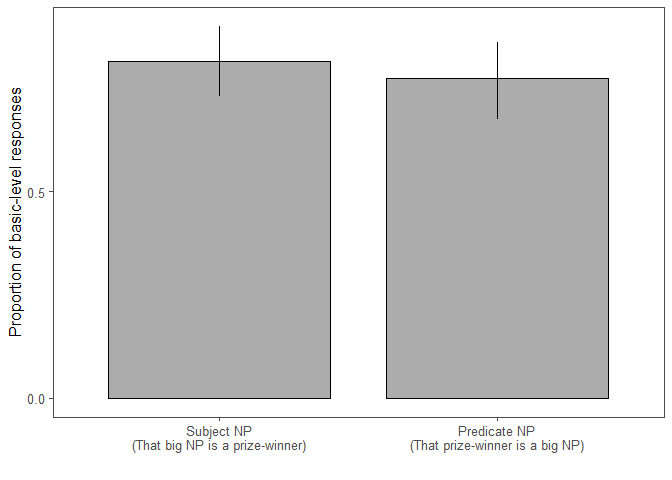
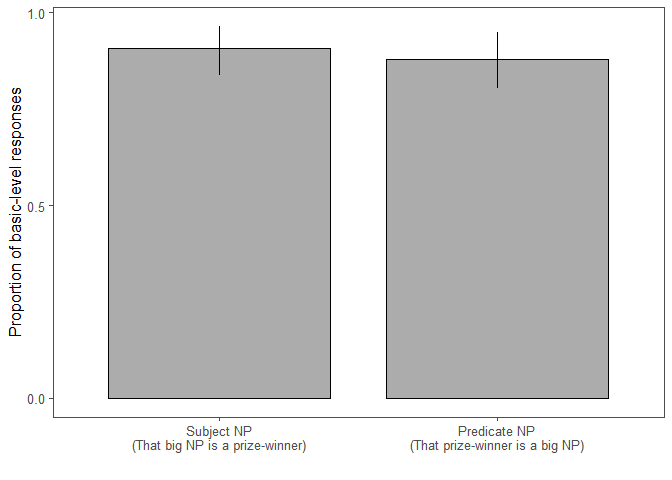
third pilot analysis

diff --git a/analysis/modification_manip_pilot3.md b/analysis/modification_manip_pilot3.md
@@ -25,7 +25,7 @@ prize-winner is a {small, big} NP’ (within-subject). We created nouns
 like ‘prize-winner’ for five context items (trees, 2 x dogs, flowers,
 birds).
 
-    ## -- Attaching packages ------------------------------------ tidyverse 1.2.1 --
+    ## -- Attaching packages ----------------------------------------- tidyverse 1.2.1 --
 
     ## v ggplot2 3.1.0     v purrr   0.2.5
     ## v tibble  2.1.3     v dplyr   0.8.3
@@ -36,7 +36,7 @@ birds).
 
     ## Warning: package 'dplyr' was built under R version 3.5.3
 
-    ## -- Conflicts --------------------------------------- tidyverse_conflicts() --
+    ## -- Conflicts -------------------------------------------- tidyverse_conflicts() --
     ## x dplyr::filter() masks stats::filter()
     ## x dplyr::lag()    masks stats::lag()
 
@@ -80,14 +80,6 @@ birds).
     ## The following object is masked from 'package:stats':
     ## 
     ##     step
-
-``` r
-#d_infer <- read_csv('../data/results_32_modification-manipulation-pilot3.csv')
-#d_infer1 <- d_infer %>% subset( select = -c(worker_id, hit_id, assignment_id, startDate))
-#write_csv(d_infer1, '../data/results_32_modification_manipulation_pilot3.csv')
-
-d_infer1 <- read_csv('../data/results_32_modification_manipulation_pilot3.csv')
-```
 
     ## Parsed with column specification:
     ## cols(
@@ -136,6 +128,39 @@ d_infer_warmup <- d_infer_Native %>%
 d_infer_filt1 <- anti_join(d_infer_Native, d_infer_warmup, by = c("submission_id"))
 d_infer_filt1 <- anti_join(d_infer_filt1, d_infer_cc_warmup, by = c("submission_id"))
 ```
+
+Participants need more labeling warm-up trials for the tree and dog
+items (they correct their responses about 2 times), for both items it is
+mostly for the big targets.
+
+``` r
+# labeling warm-up trial analysis
+
+d_infer1 %>%
+  filter((trial_name == "warmup1") | (trial_name == "warmup2")) -> d_infer_label_warmup
+         
+d_infer_label_warmup %>% group_by(submission_id, item, response1, response2) %>% count() %>%
+  gather(key="responseNr", value="response", response1, response2) -> warmup.resps.counts.long
+warmup.resps.counts.long %>% group_by(submission_id, item) %>% count(response) -> warmup.resps.counts.long.subs
+warmup.resps.counts.long.subs %>% group_by(submission_id, item) %>%  count(item) %>% mutate(nr_super = n) %>% select(-n) -> warmup.resps.counts.long.supers
+warmup.resps.counts.long.final <- warmup.resps.counts.long.subs %>%
+  left_join(., warmup.resps.counts.long.supers)
+```
+
+    ## Joining, by = c("submission_id", "item")
+
+``` r
+warmup.resps.counts.long.final %>% group_by(item) %>% tidyboot_mean(column=nr_super) %>% select(-ci_lower, -ci_upper, - mean)
+```
+
+    ## # A tibble: 5 x 3
+    ##   item        n empirical_stat
+    ##   <chr>   <int>          <dbl>
+    ## 1 birds      81           2.36
+    ## 2 dogs1     106           3.13
+    ## 3 dogs2     101           3   
+    ## 4 flowers    90           2.64
+    ## 5 trees     117           3.51
 
 The numbers of size-syntax and item-syntax combinations are relatively
 balanced.
@@ -272,13 +297,7 @@ d_infer_main_responseCat.bs %>%
 
     ## Warning: Duplicated aesthetics after name standardisation: colour
 
-![](modification_manip_pilot2_files/figure-gfm/proportions%20plot-1.png)<!-- -->
-
-``` r
- # ggtitle("Experiment 3: Comparison Class Inference")+
- # facet_grid(~context)  +
-  #ggsave("figs/expt3-cc-inference.pdf", width = 7.5, height = 3.5)
-```
+![](modification_manip_pilot3_files/figure-gfm/proportions%20plot-1.png)<!-- -->
 
 ## By-item plot
 
@@ -318,7 +337,7 @@ d_infer_main_responseCat.bs.item %>%
 
     ## Warning: Duplicated aesthetics after name standardisation: colour
 
-![](modification_manip_pilot2_files/figure-gfm/unnamed-chunk-5-1.png)<!-- -->
+![](modification_manip_pilot3_files/figure-gfm/unnamed-chunk-6-1.png)<!-- -->
 
 ## By-subject plot
 
@@ -357,7 +376,7 @@ d_infer_main_responseCat.bs.subj %>%
 
     ## Warning: Duplicated aesthetics after name standardisation: colour
 
-![](modification_manip_pilot2_files/figure-gfm/unnamed-chunk-6-1.png)<!-- -->
+![](modification_manip_pilot3_files/figure-gfm/unnamed-chunk-7-1.png)<!-- -->
 
 ## Stats
 
@@ -389,28 +408,103 @@ summary(d.infer.brm)
     ## Group-Level Effects: 
     ## ~submission_id (Number of levels: 32) 
     ##                              Estimate Est.Error l-95% CI u-95% CI
-    ## sd(Intercept)                    5.30      2.28     2.30    11.12
-    ## sd(syntaxsubject)                3.28      2.29     0.24     9.10
-    ## cor(Intercept,syntaxsubject)    -0.15      0.53    -0.95     0.85
+    ## sd(Intercept)                    5.48      2.35     2.21    11.55
+    ## sd(syntaxsubject)                3.42      2.40     0.25     9.27
+    ## cor(Intercept,syntaxsubject)    -0.18      0.52    -0.95     0.84
     ##                              Eff.Sample Rhat
-    ## sd(Intercept)                       992 1.00
-    ## sd(syntaxsubject)                   835 1.00
-    ## cor(Intercept,syntaxsubject)       2242 1.00
+    ## sd(Intercept)                      1111 1.00
+    ## sd(syntaxsubject)                   718 1.00
+    ## cor(Intercept,syntaxsubject)       2411 1.00
     ## 
     ## ~target (Number of levels: 10) 
     ##                              Estimate Est.Error l-95% CI u-95% CI
-    ## sd(Intercept)                    0.92      0.83     0.03     3.11
-    ## sd(syntaxsubject)                2.70      2.20     0.14     8.44
-    ## cor(Intercept,syntaxsubject)    -0.14      0.56    -0.96     0.91
+    ## sd(Intercept)                    0.93      0.86     0.03     3.10
+    ## sd(syntaxsubject)                2.76      2.38     0.12     8.87
+    ## cor(Intercept,syntaxsubject)    -0.13      0.56    -0.95     0.92
     ##                              Eff.Sample Rhat
-    ## sd(Intercept)                      1515 1.00
-    ## sd(syntaxsubject)                   929 1.00
-    ## cor(Intercept,syntaxsubject)       1228 1.00
+    ## sd(Intercept)                      1416 1.00
+    ## sd(syntaxsubject)                   960 1.00
+    ## cor(Intercept,syntaxsubject)       1603 1.00
     ## 
     ## Population-Level Effects: 
     ##               Estimate Est.Error l-95% CI u-95% CI Eff.Sample Rhat
-    ## Intercept         4.02      1.82     1.46     8.55       1226 1.00
-    ## syntaxsubject     1.37      2.50    -2.76     7.74       1033 1.00
+    ## Intercept         4.16      1.99     1.39     9.15       1253 1.00
+    ## syntaxsubject     1.36      2.81    -3.12     7.98        760 1.00
+    ## 
+    ## Samples were drawn using sampling(NUTS). For each parameter, Eff.Sample 
+    ## is a crude measure of effective sample size, and Rhat is the potential 
+    ## scale reduction factor on split chains (at convergence, Rhat = 1).
+
+Double the dataset to see the stats:
+
+``` r
+# simulate twise as much data
+d_infer_main_responseCat_double <- d_infer_main_responseCat %>%
+  rowwise() %>%
+  mutate(submission_id = paste(submission_id, "A", sep=''))
+
+d_infer_main_responseCat_double <- rbind(d_infer_main_responseCat, d_infer_main_responseCat_double)
+
+# stats on the doubled dataset
+d.infer.brm.double <- brm(response_num ~ syntax + 
+                            (1 + syntax | submission_id ) + 
+                            (1 + syntax | target ),
+                   data = d_infer_main_responseCat_double,
+                   family = "bernoulli",
+                   cores = 4,
+                   control = list(adapt_delta = 0.9))
+```
+
+    ## Compiling the C++ model
+
+    ## recompiling to avoid crashing R session
+
+    ## Start sampling
+
+    ## Warning: There were 1 divergent transitions after warmup. Increasing adapt_delta above 0.9 may help. See
+    ## http://mc-stan.org/misc/warnings.html#divergent-transitions-after-warmup
+
+    ## Warning: Examine the pairs() plot to diagnose sampling problems
+
+``` r
+summary(d.infer.brm.double)
+```
+
+    ## Warning: There were 1 divergent transitions after warmup. Increasing adapt_delta above 0.9 may help.
+    ## See http://mc-stan.org/misc/warnings.html#divergent-transitions-after-warmup
+
+    ##  Family: bernoulli 
+    ##   Links: mu = logit 
+    ## Formula: response_num ~ syntax + (1 + syntax | submission_id) + (1 + syntax | target) 
+    ##    Data: d_infer_main_responseCat_double (Number of observations: 320) 
+    ## Samples: 4 chains, each with iter = 2000; warmup = 1000; thin = 1;
+    ##          total post-warmup samples = 4000
+    ## 
+    ## Group-Level Effects: 
+    ## ~submission_id (Number of levels: 64) 
+    ##                              Estimate Est.Error l-95% CI u-95% CI
+    ## sd(Intercept)                    4.91      1.80     2.54     9.50
+    ## sd(syntaxsubject)                2.45      1.60     0.12     6.43
+    ## cor(Intercept,syntaxsubject)    -0.23      0.52    -0.96     0.83
+    ##                              Eff.Sample Rhat
+    ## sd(Intercept)                       443 1.01
+    ## sd(syntaxsubject)                   371 1.01
+    ## cor(Intercept,syntaxsubject)       2031 1.00
+    ## 
+    ## ~target (Number of levels: 10) 
+    ##                              Estimate Est.Error l-95% CI u-95% CI
+    ## sd(Intercept)                    1.30      1.00     0.06     3.83
+    ## sd(syntaxsubject)                3.93      2.15     1.08     9.42
+    ## cor(Intercept,syntaxsubject)    -0.27      0.47    -0.93     0.79
+    ##                              Eff.Sample Rhat
+    ## sd(Intercept)                       659 1.01
+    ## sd(syntaxsubject)                   947 1.00
+    ## cor(Intercept,syntaxsubject)        922 1.01
+    ## 
+    ## Population-Level Effects: 
+    ##               Estimate Est.Error l-95% CI u-95% CI Eff.Sample Rhat
+    ## Intercept         3.89      1.55     1.80     7.62        530 1.00
+    ## syntaxsubject     1.35      2.21    -2.64     6.51       1346 1.01
     ## 
     ## Samples were drawn using sampling(NUTS). For each parameter, Eff.Sample 
     ## is a crude measure of effective sample size, and Rhat is the potential 

diff --git a/analysis/modification_manip_pilot2.md b/analysis/modification_manip_pilot2.md
@@ -22,7 +22,7 @@ prize-winner is a {small, big} NP’ (within-subject). We created nouns
 like ‘prize-winner’ for five context items (trees, 2 x dogs, flowers,
 birds).
 
-    ## -- Attaching packages -------------------------------------------------------------------------------------------------------------------------------------------- tidyverse 1.2.1 --
+    ## -- Attaching packages ----------------------------------- tidyverse 1.2.1 --
 
     ## v ggplot2 3.1.0     v purrr   0.2.5
     ## v tibble  2.1.3     v dplyr   0.8.3
@@ -33,7 +33,7 @@ birds).
 
     ## Warning: package 'dplyr' was built under R version 3.5.3
 
-    ## -- Conflicts ----------------------------------------------------------------------------------------------------------------------------------------------- tidyverse_conflicts() --
+    ## -- Conflicts -------------------------------------- tidyverse_conflicts() --
     ## x dplyr::filter() masks stats::filter()
     ## x dplyr::lag()    masks stats::lag()
 
@@ -79,9 +79,9 @@ birds).
     ##     step
 
 ``` r
-#d_infer <- read_csv('../data/results_32_modification-manipulation-pilot2.csv')
+#d_infer <- read_csv('../data/results_32_modification-manipulation-pilot3.csv')
 #d_infer1 <- d_infer %>% subset( select = -c(worker_id, hit_id, assignment_id, startDate))
-#write_csv(d_infer1, '../data/results_32_modification_manipulation_pilot2.csv')
+#write_csv(d_infer1, '../data/results_32_modification_manipulation_pilot3.csv')
 
 d_infer1 <- read_csv('../data/results_32_modification_manipulation_pilot2.csv')
 ```
@@ -176,8 +176,8 @@ d_infer_main_responseCat <- d_infer_valid %>%
   mutate(  
     response_cat =
       ifelse( # do be extended dependent on responses provided
-        tolower(response) %in% c("birds", "bird","dog", "dogs", "fish","flower", "flowers","trees", "tree", "big dogs", "other dogs", "animals", "plants", 
-                                 "flowerrs", "tres"), "basic", "subordinate"),
+        tolower(response) %in% c("birds", "bird","dog", "dogs", "fish","flower", "flowers","trees", "tree", "big dogs", "other dogs", "animals", "plants","flowerrs", "tres"
+                               ), "basic", "subordinate"),
 
     response_num = ifelse(response_cat == "basic", 1, 0),
     response_label = "basic"
@@ -241,7 +241,7 @@ d_infer_main_responseCat %>% count(item, adj, syntax)
 ## Subject vs. predicate NP position plot
 
 The proportion of inferred basic-level comparison classes is plotted
-by-syntax (subject vs. predicate) (n=31 participants). here seems to be
+by-syntax (subject vs. predicate) (n=31 participants). there seems to be
 no effect of syntax.
 
 ``` r
@@ -397,28 +397,28 @@ summary(d.infer.brm)
     ## Group-Level Effects: 
     ## ~submission_id (Number of levels: 31) 
     ##                              Estimate Est.Error l-95% CI u-95% CI
-    ## sd(Intercept)                    8.94      5.24     2.68    22.50
-    ## sd(syntaxsubject)                6.72      5.79     0.34    22.26
-    ## cor(Intercept,syntaxsubject)     0.20      0.54    -0.91     0.95
+    ## sd(Intercept)                    8.74      4.75     2.74    21.20
+    ## sd(syntaxsubject)                6.49      5.45     0.28    21.46
+    ## cor(Intercept,syntaxsubject)     0.22      0.54    -0.89     0.97
     ##                              Eff.Sample Rhat
-    ## sd(Intercept)                      1180 1.00
-    ## sd(syntaxsubject)                   810 1.00
-    ## cor(Intercept,syntaxsubject)       2275 1.00
+    ## sd(Intercept)                      1176 1.00
+    ## sd(syntaxsubject)                  1332 1.00
+    ## cor(Intercept,syntaxsubject)       2838 1.00
     ## 
     ## ~target (Number of levels: 10) 
     ##                              Estimate Est.Error l-95% CI u-95% CI
-    ## sd(Intercept)                    2.93      2.68     0.10    10.16
-    ## sd(syntaxsubject)                7.44      5.64     0.67    21.91
-    ## cor(Intercept,syntaxsubject)    -0.28      0.51    -0.96     0.83
+    ## sd(Intercept)                    2.85      2.58     0.08     9.86
+    ## sd(syntaxsubject)                6.98      4.97     0.56    19.53
+    ## cor(Intercept,syntaxsubject)    -0.23      0.53    -0.96     0.87
     ##                              Eff.Sample Rhat
-    ## sd(Intercept)                      1112 1.00
-    ## sd(syntaxsubject)                  1111 1.00
-    ## cor(Intercept,syntaxsubject)       1406 1.00
+    ## sd(Intercept)                      1012 1.00
+    ## sd(syntaxsubject)                  1318 1.00
+    ## cor(Intercept,syntaxsubject)       1301 1.00
     ## 
     ## Population-Level Effects: 
     ##               Estimate Est.Error l-95% CI u-95% CI Eff.Sample Rhat
-    ## Intercept        10.91      6.18     3.63    26.92       1254 1.00
-    ## syntaxsubject     5.89      8.53    -5.86    28.32        753 1.00
+    ## Intercept        10.46      5.69     3.46    25.80       1201 1.00
+    ## syntaxsubject     5.50      7.63    -5.70    25.49       1651 1.00
     ## 
     ## Samples were drawn using sampling(NUTS). For each parameter, Eff.Sample 
     ## is a crude measure of effective sample size, and Rhat is the potential 
